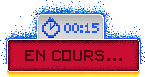
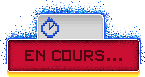
scorebar

Changed region(s): [[0.4414, 0.2857, 0.6897, 0.4416], [0.2759, 0.2078, 0.4138, 0.4935]]

diff --git a/TestPlayer/src/index.html b/TestPlayer/src/index.html
@@ -51,8 +51,10 @@
                                  </table>
                              </td>
 
-                             <td>
-                                 <button id="fightButton" class="fightButton"></button>
+                             <td style="width: 145px;height: 77px;color: #2556ee;font-family:Pixel01;font-size: 10px;">
+                                 <img id="fightRunningImage" src="images/buttonRunning.png" style="position: inherit; top: 0px;display: none"/>
+                                 <div id="time" style="position: absolute;top: 25px;padding-left: 61px;display: none" >01:08</div>
+                                 <button id="fightButton" class="fightButton" style="position: absolute;top: 0px"></button>
                              </td>
                              <td style="vertical-align: bottom">
                                  <table cellpadding="0px" cellspacing="0px">
